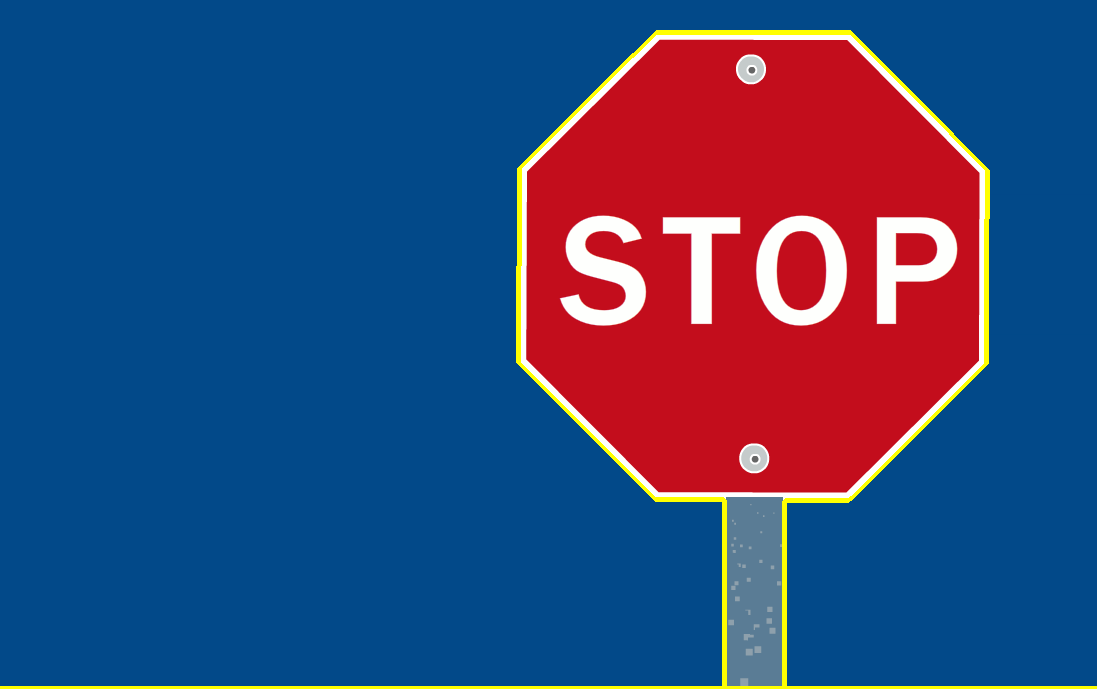
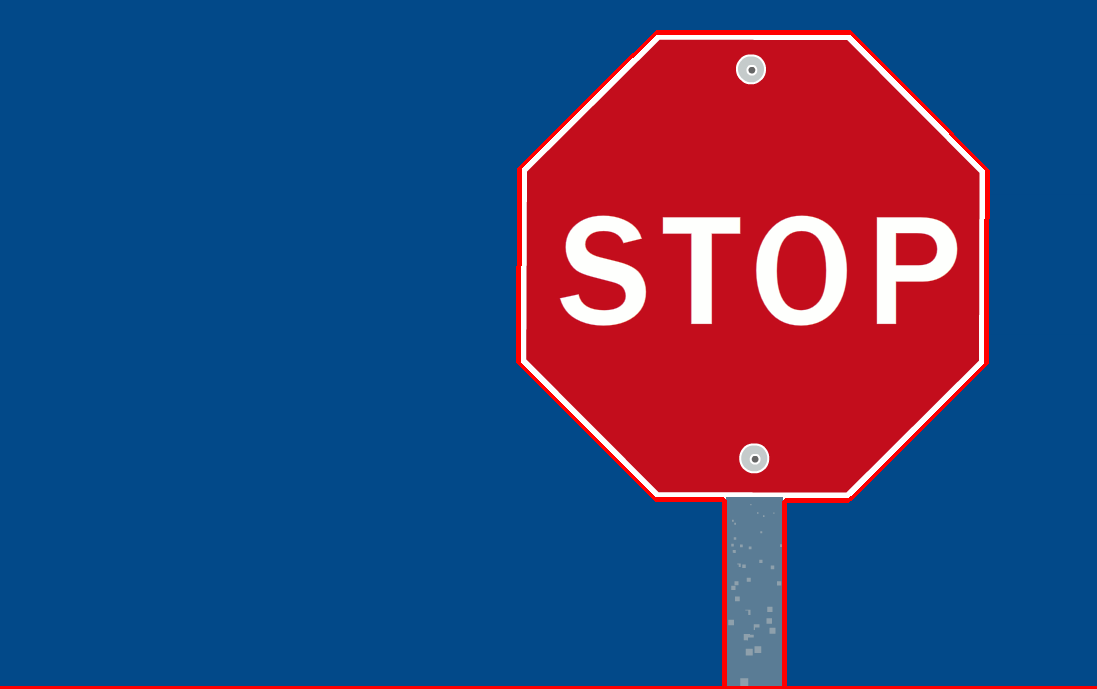
n

diff --git a/new.py b/new.py
@@ -8,7 +8,7 @@ img = cv2.imread("s.png")
 imgray = cv2.cvtColor(img,cv2.COLOR_BGR2GRAY)
 ret,thresh = cv2.threshold(imgray,127,255,0)
 im2, contours, hierarchy = cv2.findContours(thresh,cv2.RETR_EXTERNAL,cv2.CHAIN_APPROX_SIMPLE)
-cv2.drawContours(img, contours, -1, (0,255,255), 3)
+cv2.drawContours(img, contours, -1, (0,0,255), 3)
 cv2.imwrite("abc.png", img)
 #cv2.imshow("canny", cv2.imread("canny.jpg"))
 '''
